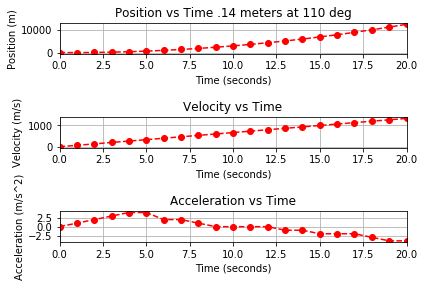
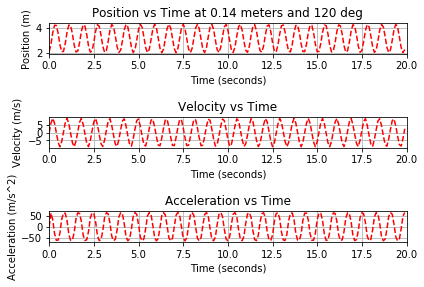
Add files via upload

diff --git a/Step 5/numerical model.py b/Step 5/numerical model.py
@@ -1,77 +1,96 @@
 # -*- coding: utf-8 -*-
 import matplotlib.pyplot as plt
 import numpy as np
-import scipy.signal as sig
 import math
+import scipy.signal as sig
 
 g = 9.81
 L = [.14, .19, .24, .29, .34]
-pos = [0]
-vel = [0]
-acc = [0,1,2,3,4,4,2,2,1,0,0,0,0,-1,-1,-2,-2,-2,-3,-4,-4]
-time = np.linspace(0,20,21)
-theta = np.radians(110)
 
-def update_system(acc,pos,vel,time1,time2):
+
+
+def update_system(pos,vel,time1,time2, length):
     # position and velocity update below
     dt = time2-time1
-    posNext = pos+vel*dt
-    velNext = vel+(g/L[4])*np.sin(theta)*dt
-    return posNext,velNext
+    accNext = (g/length)*np.sin(pos)
+    velNext = vel+(accNext*dt)
+    posNext = pos+(velNext*dt)
+    return posNext,velNext, accNext
 
-def find_period(length):
-    s = (length/g)
-    y = math.sqrt(s)
-    x = 2 * math.pi
-    print(y * x)
-    
-   
-i = 1
-while i < len(time):
+
+
+def pen_sim(length, start_angle):
+    if start_angle < 90:
+        pos = [math.pi/3]
+    elif start_angle > 90:
+        pos = [2*math.pi/3]
+    vel = [0]
+    acc = [0]
+    time = np.arange(0,20,.1)
+    i = 1
+    while i < len(time):
     # update position and velocity using previous values and time step
-    posNext, velNext = update_system(acc[i],pos[i-1],vel[i-1],time[i-1],time[i])
-    pos.append(posNext)
-    vel.append(velNext)
-    #print_system(time[i],pos[i],vel[i])
-    i += 1
+        posNext, velNext, accNext = update_system(pos[i-1],vel[i-1],time[i-1],time[i], length)
+        pos.append(posNext)
+        vel.append(velNext)
+        acc.append(accNext)
+        i += 1
 
 
-plt.subplot(3,1,1)
-plt.plot(time, pos, 'ro--') 
-plt.xlabel('Time (seconds)')
-plt.ylabel('Position (m)')
-plt.title('Position vs Time .34 meters at 110 deg')
-plt.xlim((0, 20)) # set x range to -1 to 8
-plt.grid()
+    plt.subplot(3,1,1)
+    plt.plot(time, pos, 'r--') 
+    plt.xlabel('Time (seconds)')
+    plt.ylabel('Position (m)')
+    plt.title('Position vs Time at ' + str(length) + ' meters and ' + str(start_angle) + ' deg')
+    plt.xlim((0, 20)) # set x range to -1 to 8
+    plt.grid()
 
 
-plt.subplot(3,1,2)
-plt.plot(time, vel, 'ro--') 
-plt.xlabel('Time (seconds)')
-plt.ylabel('Velocity (m/s)')
-plt.title('Velocity vs Time')
-plt.xlim((0, 20)) # set x range to -1 to 8
-plt.grid()
+    plt.subplot(3,1,2)
+    plt.plot(time, vel, 'r--') 
+    plt.xlabel('Time (seconds)')
+    plt.ylabel('Velocity (m/s)')
+    plt.title('Velocity vs Time')
+    plt.xlim((0, 20)) # set x range to -1 to 8
+    plt.grid()
 
 
-plt.subplot(3,1,3)
-plt.plot(time, acc, 'ro--') 
-plt.xlabel('Time (seconds)')
-plt.ylabel('Acceleration (m/s^2)')
-plt.title('Acceleration vs Time')
-plt.xlim((0, 20)) # set x range to -1 to 8
-plt.grid()
-plt.tight_layout()
-plt.show()
+    plt.subplot(3,1,3)
+    plt.plot(time, acc, 'r--') 
+    plt.xlabel('Time (seconds)')
+    plt.ylabel('Acceleration (m/s^2)')
+    plt.title('Acceleration vs Time')
+    plt.xlim((0, 20)) # set x range to -1 to 8
+    plt.grid()
+    plt.tight_layout()
+    plt.show()
     
-p = [.24, .28, .31, .34, .37]
-#these values were obtained by running the function find_period
+    p_filt_pks, _ = sig.find_peaks(pos)
+    pt = time[p_filt_pks]
+    period = pt[5] - pt[4]
+    print('Period of pendulum ' + str(length) + ' meters and the period is ' + str(period) + 'sec')
+   
+pen_sim(.14, 60)    
+pen_sim(.19, 60) 
+pen_sim(.24, 60)
+pen_sim(.29, 60) 
+pen_sim(.34, 60) 
+pen_sim(.14, 120) 
+pen_sim(.19, 120) 
+pen_sim(.24, 120) 
+pen_sim(.29, 120) 
+pen_sim(.34, 120) 
+
+
+
+p = [1.0, 1.2,  1.299, 1.5, 1.6]
+#these values were obtained by running the function pen_sim
 
 plt.plot(L, p, 'bo-')
 plt.xlabel('Length (m)')
 plt.ylabel('Period (s)')
 plt.grid(True)
-plt.title('Numerical Correlation of Pendulum Length vs. Period')
+plt.title('Numerical Correlation of Pendulum Length vs. Period at 60 deg')
 plt.show()
 
 
